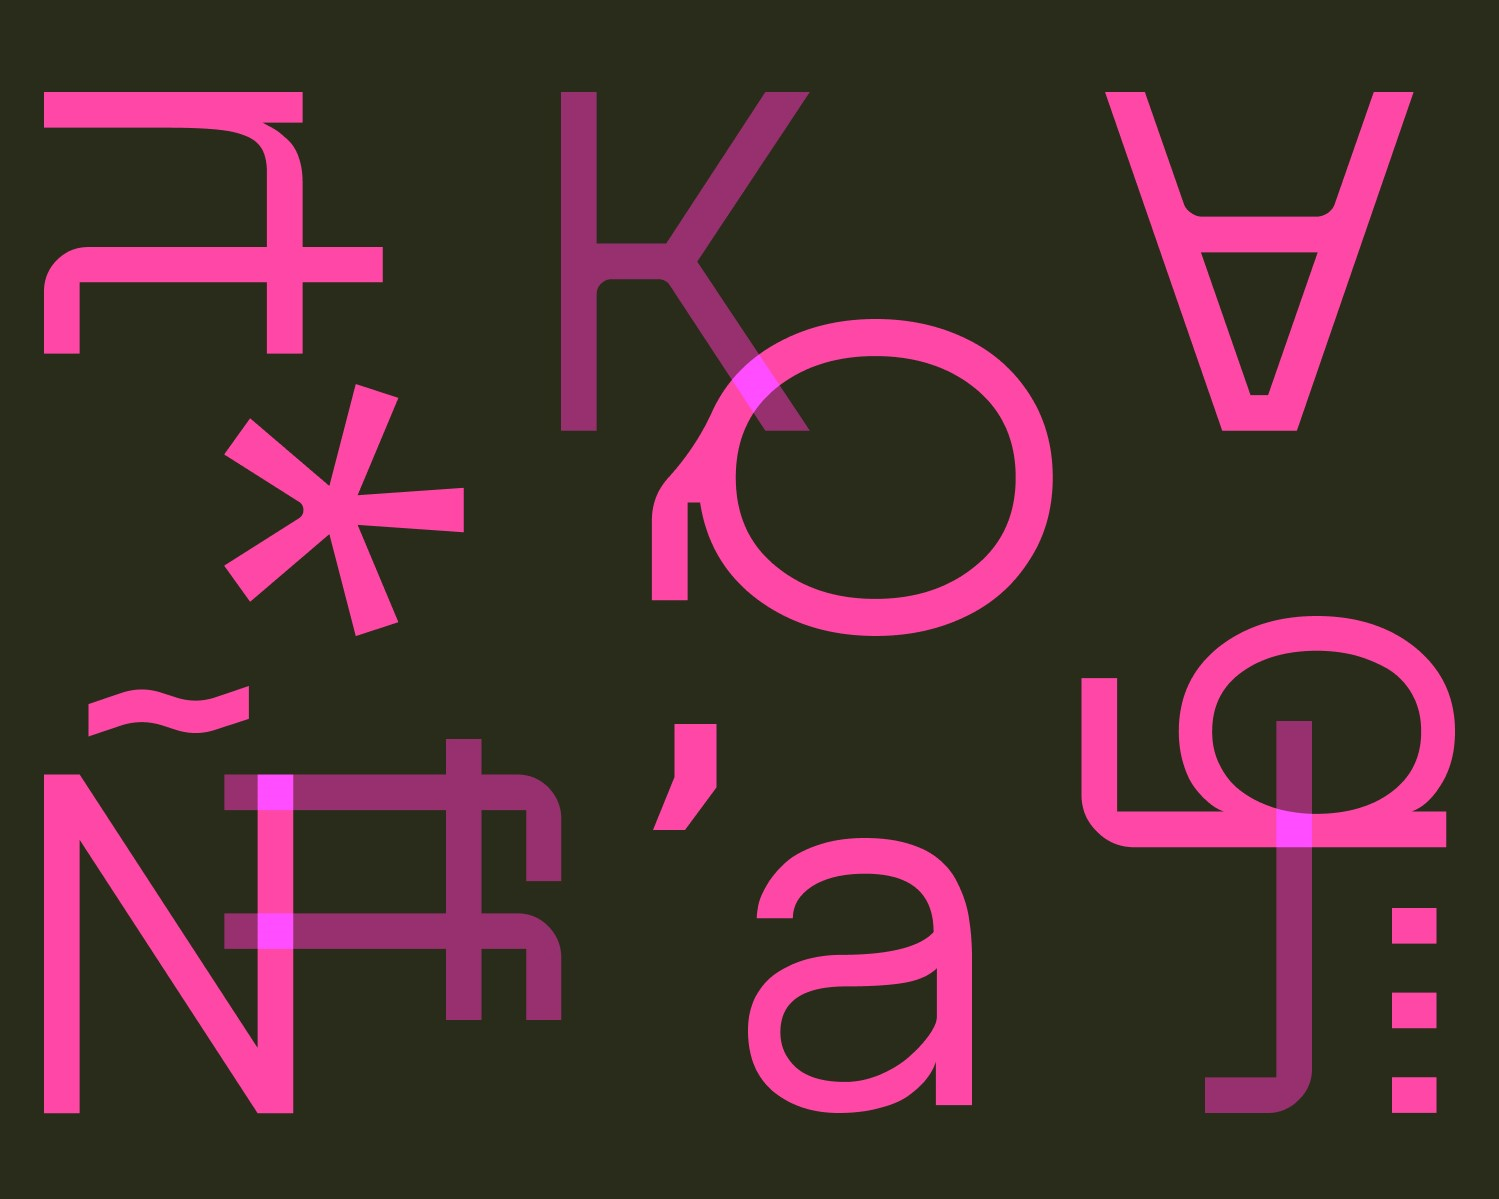
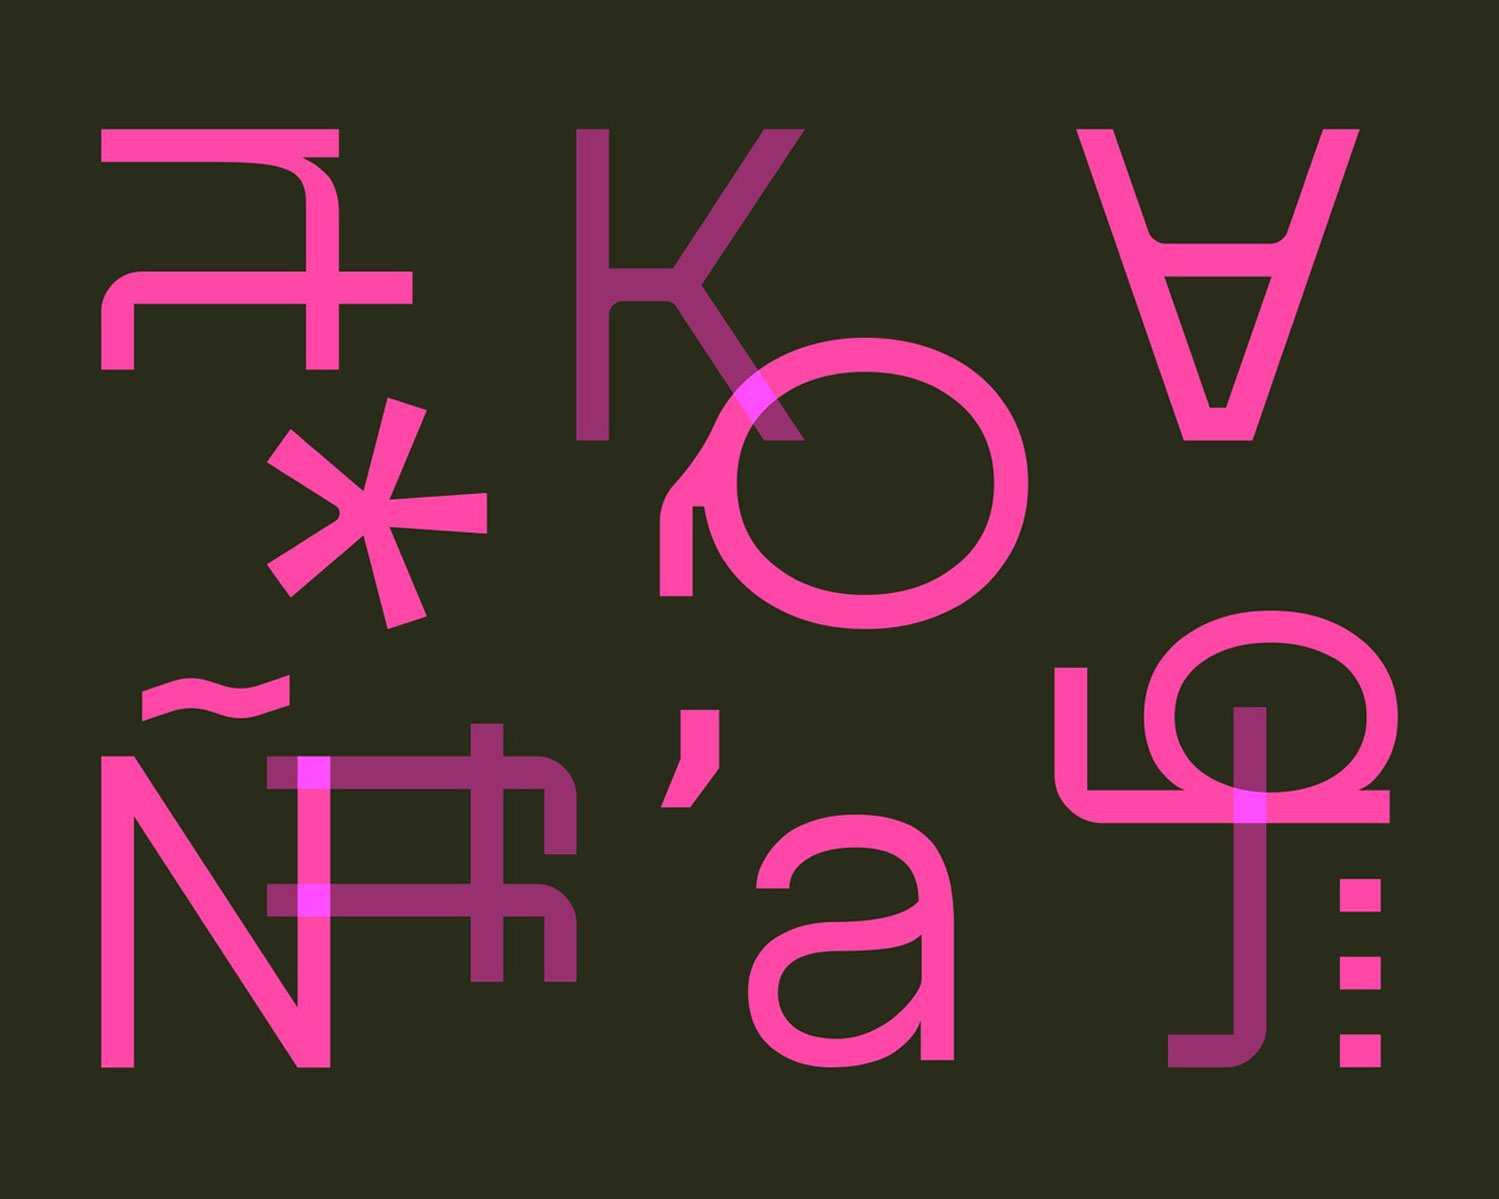
besa still

diff --git a/detailansicht.js b/detailansicht.js
@@ -888,12 +888,15 @@ const DETAILS = {
               <div class="image-2">
               <div> 
                 <img src="bilder/work/px4.jpg">
-              <figcaption>
-              Pixie kann pixelig und hart, aber auch sanft und fließend wirken
-              </figcaption>
+                <figcaption>
+                Pixie kann pixelig und hart,
+                </figcaption>
               </div>
               <div> 
                 <img src="bilder/work/px4.2.jpg">
+                <figcaption>
+                aber auch sanft und fließend wirken
+                </figcaption>
               </div>
               </div>
 
@@ -910,6 +913,10 @@ const DETAILS = {
               Pixie in Outlines, unfarbig und abgerundet <br> mit einer deutlich veränderten Wirkung
               </figcaption>
 
+              <img src="bilder/work/px2.jpg">
+              <figcaption>
+              Ich liebe einfach Gs
+              </figcaption>
 
 
 
@@ -1064,10 +1071,10 @@ const DETAILS = {
               der RWTH Aachen habe ich besonders im Bereich Informationsdesign viel gelernt. Durch die Zusammenarbeit
               mit den angestellten Forschenden habe ich außerdem erste Erfahrungen mit professionellen Briefings gesammelt.
               Ich konnte nicht nur meine Kenntnisse im Umgang mit Adobe Illustrator erweitern, sondern auch im Social 
-              Media Team mithelfen, den Großteil der Teamfotos anfertigen und die Website des Instituts anhand eines CMS updaten.
+              Media Team mithelfen, den Großteil der <a href="https://www.ltt.rwth-aachen.de/cms/LTT/Der-Lehrstuhl/~ivnu/Team/" target="_blank" rel="noopener noreferrer"> → Teamfotos </a> anfertigen und die Website des Instituts anhand eines CMS updaten.
               </h2>
 
-              <h2> <br> <a href="https://www.ltt.rwth-aachen.de/cms/LTT/Der-Lehrstuhl/~ivnu/Team/" target="_blank" rel="noopener noreferrer"> → Teamfotos </a> </h2>
+              
 
 
 
@@ -1775,6 +1782,9 @@ const DETAILS = {
               </div>
               <div> 
                 <img src="bilder/work/zm7.jpg">
+                <figcaption>
+                Gummibärchen             
+                </figcaption>
               </div>
               </div>
 

diff --git a/index.html b/index.html
@@ -95,8 +95,8 @@
 
 
           <div class="grid-item" data-id="HH">
-            <img class="dynamic-image" src="bilder/hh_video.gif" alt="">
-            <img class="dynamic-image hover-image" src="bilder/hh_crew.jpg" alt="">
+            <img class="dynamic-image" src="bilder/hh_crew2.jpg" alt="">
+            <img class="dynamic-image hover-image" src="bilder/hh_video.gif" alt="">
           </div>
           <div class="grid-item" data-id="M">
             <img class="dynamic-image" src="bilder/m1.jpg" alt="">
@@ -107,7 +107,7 @@
 
           <div class="grid-item" data-id="PG">
             <img class="dynamic-image" src="bilder/pg4.jpg" alt="">
-            <img class="dynamic-image hover-image" src="bilder/pg6.jpg" alt="">
+            <img class="dynamic-image hover-image" src="bilder/pg_tickets.jpg" alt="">
           </div>
           <div class="grid-item" data-id="NH">
             <img class="dynamic-image" src="bilder/nh6.jpg" alt="">
@@ -122,7 +122,7 @@
           </div>
           <div class="grid-item" data-id="SR">
             <img class="dynamic-image" src="bilder/sr.gif" alt="">
-            <img class="dynamic-image hover-image" src="bilder/sr.gif" alt="">
+            <img class="dynamic-image hover-image" src="bilder/sr_entwuerfe.jpg" alt="">
           </div> 
 
 
